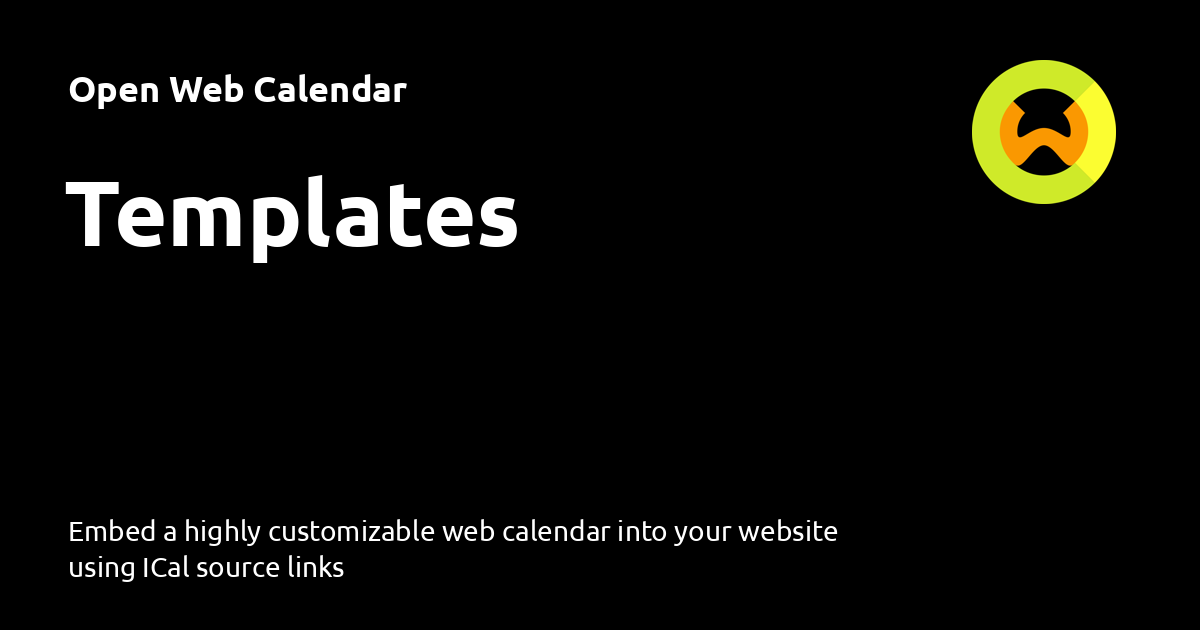
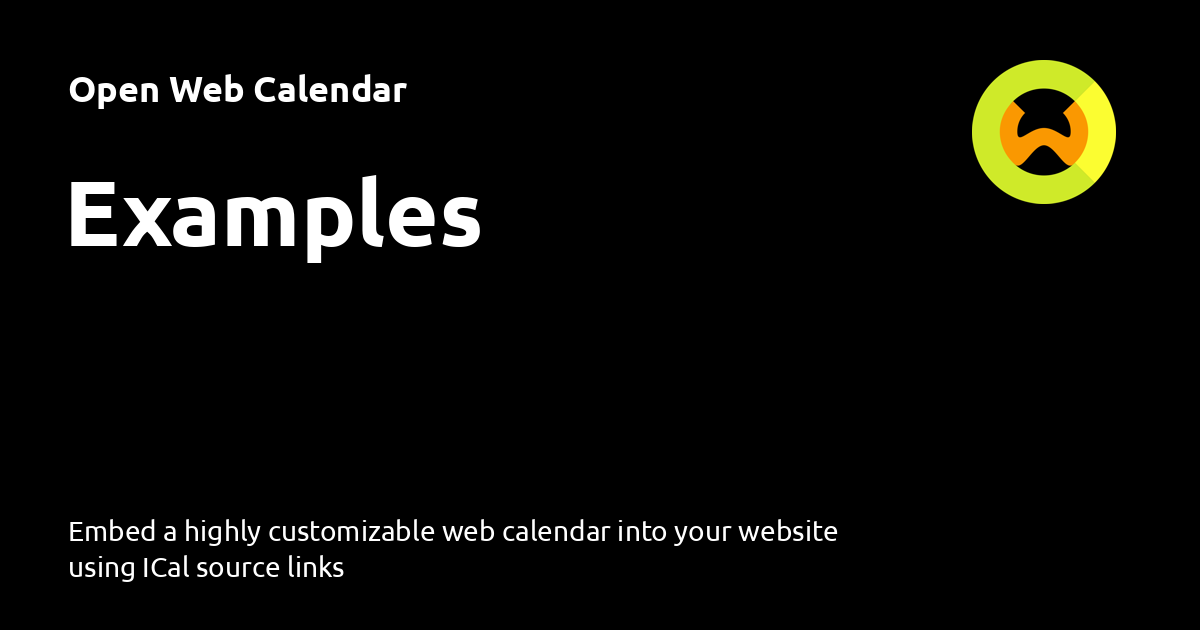
Deployed a61ca5e with MkDocs version: 1.5.3

Changed region(s): [[0.0308, 0.2714, 0.4317, 0.4222]]

diff --git a/templates/index.html b/templates/index.html
@@ -27,7 +27,7 @@
     
     
       
-        <title>Templates - Open Web Calendar</title>
+        <title>Examples - Open Web Calendar</title>
       
     
     
@@ -62,7 +62,7 @@
       
         <meta  property="og:type"  content="website" >
       
-        <meta  property="og:title"  content="Templates - Open Web Calendar" >
+        <meta  property="og:title"  content="Examples - Open Web Calendar" >
       
         <meta  property="og:description"  content="Embed a highly customizable web calendar into your website using ICal source links" >
       
@@ -78,7 +78,7 @@
       
         <meta  name="twitter:card"  content="summary_large_image" >
       
-        <meta  name="twitter:title"  content="Templates - Open Web Calendar" >
+        <meta  name="twitter:title"  content="Examples - Open Web Calendar" >
       
         <meta  name="twitter:description"  content="Embed a highly customizable web calendar into your website using ICal source links" >
       
@@ -138,7 +138,7 @@
         <div class="md-header__topic" data-md-component="header-topic">
           <span class="md-ellipsis">
             
-              Templates
+              Examples
             
           </span>
         </div>
@@ -276,7 +276,7 @@
           
   
   <span class="md-ellipsis">
-    Templates
+    Examples
   </span>
   
 
@@ -287,7 +287,7 @@
         
   
   <span class="md-ellipsis">
-    Templates
+    Examples
   </span>
   
 
@@ -711,9 +711,9 @@
   
 
 
+<h1 id="examples">Examples<a class="headerlink" href="#examples" title="Permanent link">&para;</a></h1>
 <!-- Page level macros, see https://mkdocs-macros-plugin.readthedocs.io/en/latest/pages/#page-level-macros -->
 
-<h1 id="examples">Examples<a class="headerlink" href="#examples" title="Permanent link">&para;</a></h1>
 <p>We have prepared a variety of different styles so you can edit them to your needs.
 For each style, you can click on the <code>?</code> question mark in the corner
 and edit the calendar.</p>
@@ -723,7 +723,7 @@ and edit the calendar.</p>
 <h2 id="mobile-one-day-calendar-feed">Mobile One Day Calendar Feed<a class="headerlink" href="#mobile-one-day-calendar-feed" title="Permanent link">&para;</a></h2>
 <p>Here is an example of a one day view of a Christmas day:</p>
 <iframe class="open-web-calendar"
-    style="background:url('https://raw.githubusercontent.com/niccokunzmann/open-web-calendar/master/static/img/loaders/circular-loader.gif') center center no-repeat;"
+    style="background:url('https://raw.githubusercontent.com/niccokunzmann/open-web-calendar/master/static/img/loaders/circular-loader.gif') center center no-repeat; border-radius: 10px;"
     src="https://open-web-calendar.hosted.quelltext.eu/calendar.html?specification_url=https://open-web-calendar.quelltext.eu/assets/templates/christmas-day.json"
     sandbox="allow-scripts allow-same-origin allow-top-navigation"
     allowTransparency="true" scrolling="no"
@@ -734,7 +734,7 @@ and edit the calendar.</p>
 different categories depending on who they are for: <code>work</code> or <code>personal</code>.
 Events can be single events or occur every day.</p>
 <iframe class="open-web-calendar"
-    style="background:url('https://raw.githubusercontent.com/niccokunzmann/open-web-calendar/master/static/img/loaders/circular-loader.gif') center center no-repeat;"
+    style="background:url('https://raw.githubusercontent.com/niccokunzmann/open-web-calendar/master/static/img/loaders/circular-loader.gif') center center no-repeat; border-radius: 10px;"
     src="https://open-web-calendar.hosted.quelltext.eu/calendar.html?specification_url=https://open-web-calendar.quelltext.eu/assets/templates/family-planning.json"
     sandbox="allow-scripts allow-same-origin allow-top-navigation"
     allowTransparency="true" scrolling="no"

diff --git a/contributing/index.html b/contributing/index.html
@@ -267,7 +267,7 @@
         
   
   <span class="md-ellipsis">
-    Templates
+    Examples
   </span>
   
 
@@ -696,7 +696,7 @@ If your language is not listed, please request to add it!</p>
 <li><a href="https://hosted.weblate.org/engage/open-web-calendar/">Translate on Weblate</a></li>
 </ul>
 <p>Here, you can see the current translation status:</p>
-<p><a href="https://hosted.weblate.org/engage/open-web-calendar/"><img alt="Translation status" src="../assets/external/hosted.weblate.org/widgets/open-web-calendar/-/multi-auto.svg"></a></p>
+<p><a href="https://hosted.weblate.org/engage/open-web-calendar/"><img alt="Translation status" src="../https:/hosted.weblate.org/widgets/open-web-calendar/-/multi-auto.svg"></a></p>
 
 
 
@@ -759,7 +759,7 @@ If your language is not listed, please request to add it!</p>
       <nav class="md-footer__inner md-grid" aria-label="Footer" >
         
           
-          <a href="../templates/" class="md-footer__link md-footer__link--prev" aria-label="Previous: Templates">
+          <a href="../templates/" class="md-footer__link md-footer__link--prev" aria-label="Previous: Examples">
             <div class="md-footer__button md-icon">
               
               <svg xmlns="http://www.w3.org/2000/svg" viewBox="0 0 24 24"><path d="M20 11v2H8l5.5 5.5-1.42 1.42L4.16 12l7.92-7.92L13.5 5.5 8 11h12Z"/></svg>
@@ -769,7 +769,7 @@ If your language is not listed, please request to add it!</p>
                 Previous
               </span>
               <div class="md-ellipsis">
-                Templates
+                Examples
               </div>
             </div>
           </a>

diff --git a/index.html b/index.html
@@ -268,7 +268,7 @@
         
   
   <span class="md-ellipsis">
-    Templates
+    Examples
   </span>
   
 
@@ -762,13 +762,13 @@
         
         
           
-          <a href="templates/" class="md-footer__link md-footer__link--next" aria-label="Next: Templates">
+          <a href="templates/" class="md-footer__link md-footer__link--next" aria-label="Next: Examples">
             <div class="md-footer__title">
               <span class="md-footer__direction">
                 Next
               </span>
               <div class="md-ellipsis">
-                Templates
+                Examples
               </div>
             </div>
             <div class="md-footer__button md-icon">

diff --git a/404.html b/404.html
@@ -230,7 +230,7 @@
         
   
   <span class="md-ellipsis">
-    Templates
+    Examples
   </span>
   
 

diff --git a/blog/2024/04/10/new-website/index.html b/blog/2024/04/10/new-website/index.html
@@ -265,7 +265,7 @@
         
   
   <span class="md-ellipsis">
-    Templates
+    Examples
   </span>
   
 

diff --git a/blog/archive/2024/index.html b/blog/archive/2024/index.html
@@ -263,7 +263,7 @@
         
   
   <span class="md-ellipsis">
-    Templates
+    Examples
   </span>
   
 

diff --git a/blog/category/website/index.html b/blog/category/website/index.html
@@ -263,7 +263,7 @@
         
   
   <span class="md-ellipsis">
-    Templates
+    Examples
   </span>
   
 

diff --git a/blog/index.html b/blog/index.html
@@ -267,7 +267,7 @@
         
   
   <span class="md-ellipsis">
-    Templates
+    Examples
   </span>
   
 

diff --git a/changelog/index.html b/changelog/index.html
@@ -267,7 +267,7 @@
         
   
   <span class="md-ellipsis">
-    Templates
+    Examples
   </span>
   
 

diff --git a/dev/api/index.html b/dev/api/index.html
@@ -267,7 +267,7 @@
         
   
   <span class="md-ellipsis">
-    Templates
+    Examples
   </span>
   
 

diff --git a/dev/index.html b/dev/index.html
@@ -267,7 +267,7 @@
         
   
   <span class="md-ellipsis">
-    Templates
+    Examples
   </span>
   
 

diff --git a/dev/maintain/index.html b/dev/maintain/index.html
@@ -267,7 +267,7 @@
         
   
   <span class="md-ellipsis">
-    Templates
+    Examples
   </span>
   
 
